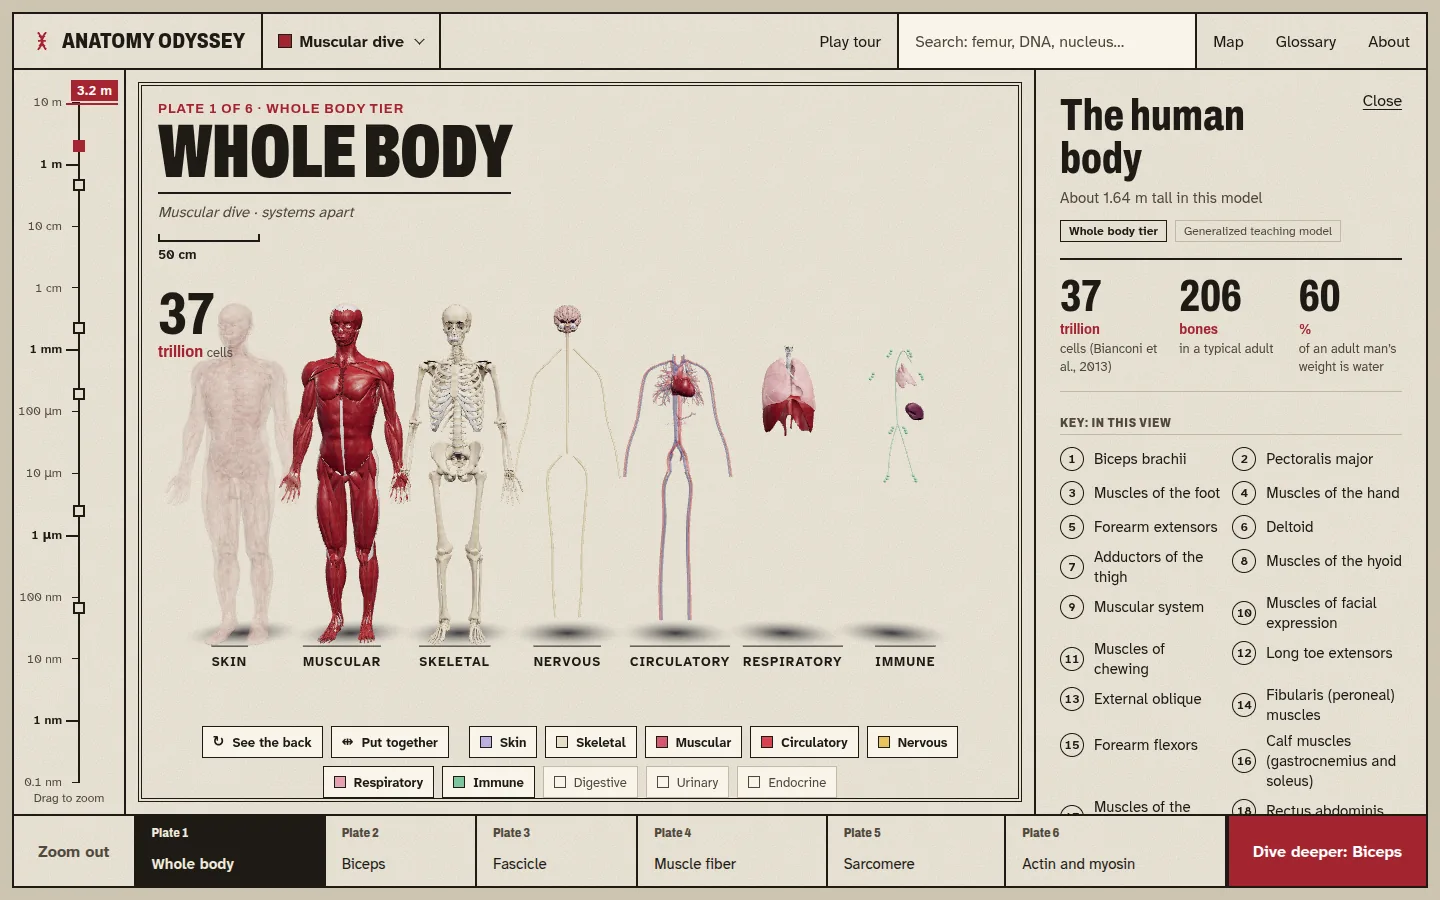
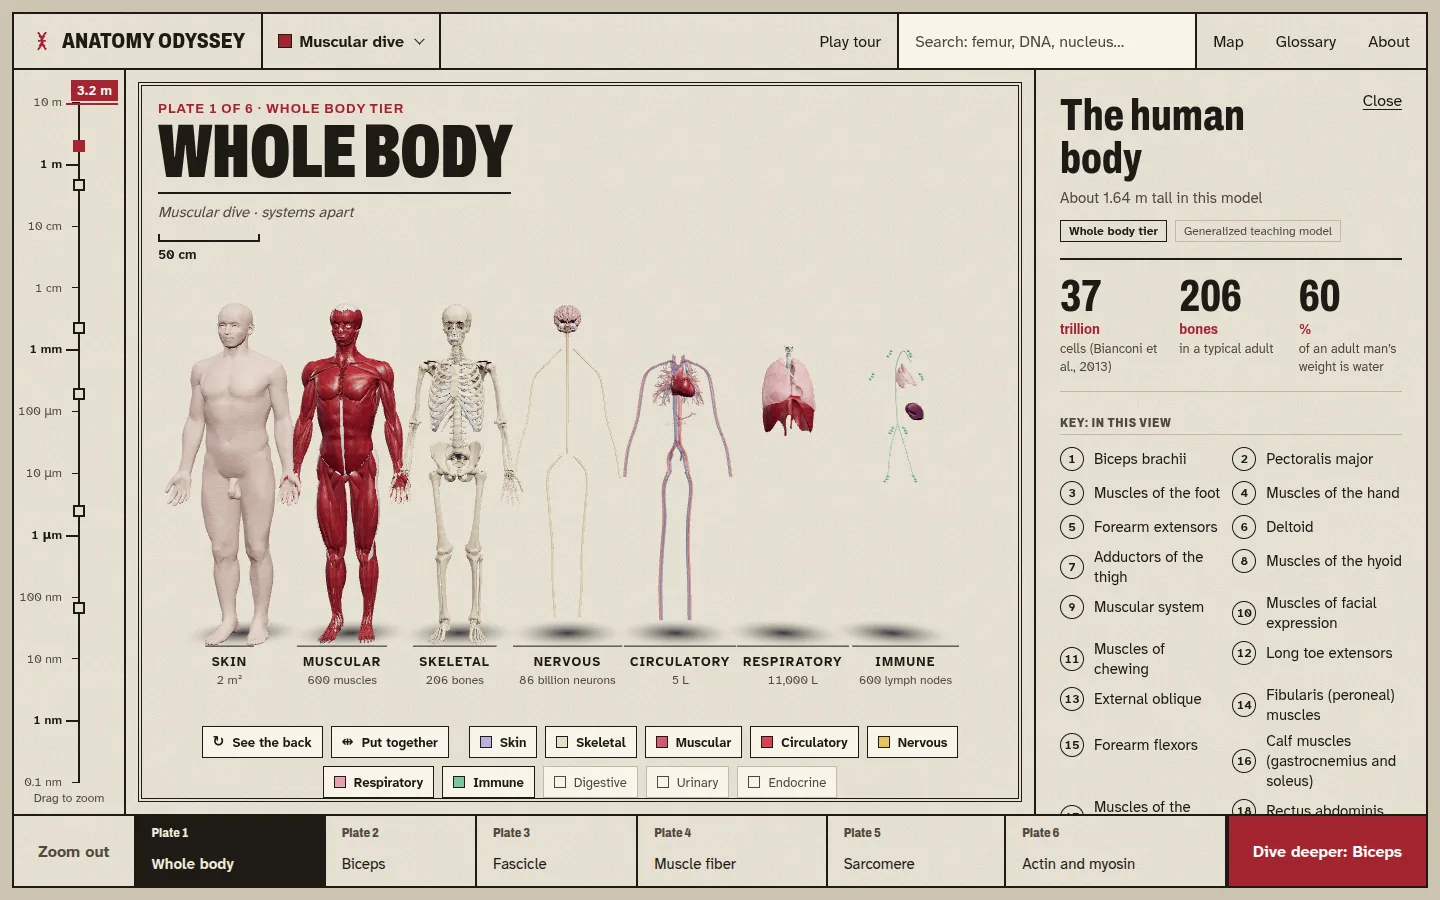
Stand the skin alone as a solid figure; add A and B keys (v0.28.0)
Taken apart, the skin has nothing inside to show, so it fills in from a
see-through film to a solid figure on an even skin tone (its mottled film
tint dropped, pores and creases kept), and turns see-through again when
put together. A takes the body apart or puts it together, B turns it
round; listed on the About page and announced with aria-keyshortcuts.

diff --git a/src/scenes/body.js b/src/scenes/body.js
@@ -38,6 +38,9 @@ export const APART_ORDER = ['skin', 'muscular', 'skeletal', 'nervous', 'circulat
 export const APART_SPACING = 0.54;
 /** How far (meters) a system rises off the floor while the pointer is on it, and how briskly. */
 export const APART_LIFT = 0.06;
+/** How opaque the skin becomes standing alone in the row. */
+export const SKIN_ALONE = 0.94;
+const SKIN_TONE = 0xcfb29f;
 export const LIFT_SPRING = { stiffness: 160, damping: 20 };
 
 /** Where each shown system stands when taken apart: x offsets, centred on the body's own place. */
@@ -371,6 +374,12 @@ function build({ mode = 'body', systems = DEFAULT_SYSTEMS, reducedMotion = false
   let apart = false;
   let shown = skeletonOnly ? ['skeletal'] : [...systems];
   const springs = Object.fromEntries(Object.keys(groups).map((id) => [id, { x: 0, v: 0, delay: 0, y: 0, vy: 0 }]));
+  // Standing alone, the skin has nothing inside it to show through, so it fills in
+  // to a solid figure, as an atlas draws the surface plate.
+  const skinFades = [];
+  groups.skin?.traverse((o) => {
+    if (o.isMesh && o.material?.transparent && o.material.opacity < 0.6) skinFades.push({ mat: o.material, base: o.material.opacity, map: o.material.map, color: o.material.color.clone() });
+  });
   let lifted = null; // the system the pointer is on, raised off the floor like a plate picked up
   const shadows = {};
   for (const [id, grp] of Object.entries(groups)) {
@@ -501,6 +510,20 @@ function build({ mode = 'body', systems = DEFAULT_SYSTEMS, reducedMotion = false
       }
       const t = spread();
       floor.material.opacity = 0.75 * (1 - t);
+      for (const f of skinFades) {
+        const { mat, base } = f;
+        mat.opacity = base + (SKIN_ALONE - base) * t;
+        const solid = t > 0.5;
+        if (mat.depthWrite !== solid) {
+          // Solid, the skin's mottled color map (made to tint a see-through film) would read
+          // as blotches; it keeps its pores and creases (the normal map) on an even skin tone.
+          mat.depthWrite = solid;
+          mat.map = solid ? null : f.map;
+          if (solid) mat.color.set(SKIN_TONE);
+          else mat.color.copy(f.color);
+          mat.needsUpdate = true;
+        }
+      }
       for (const sh of Object.values(shadows)) sh.material.opacity = 0.75 * t * (1 - 0.45 * (sh.userData.lift ?? 0));
       beat = (beat + dt * BEATS_PER_SECOND) % 1;
       heart?.scale.setScalar(still ? 1 : heartbeatScale(beat));

diff --git a/src/main.js b/src/main.js
@@ -183,11 +183,12 @@ async function main() {
 
   // ── Turn around (whole-body tier) ──────────────────────────────────
   // A wall chart of the body comes as a front plate and a back plate; this turns the model to show the other.
-  const turnButton = el('button', { class: 'system-chip system-chip--turn', type: 'button', onclick: () => engine.turnAround() },
+  const turnButton = el('button', { class: 'system-chip system-chip--turn', type: 'button', 'aria-keyshortcuts': 'B', onclick: () => engine.turnAround() },
     el('span', { class: 'system-chip__turn', 'aria-hidden': 'true', text: '↻' }), el('span', { class: 'system-chip__label', text: 'See the back' }));
   // Taking the body apart stands its systems in a row, like the plates of an anatomy atlas side by side.
   const apartButton = el('button', {
     class: 'system-chip system-chip--turn system-chip--apart',
+    'aria-keyshortcuts': 'A',
     type: 'button',
     onclick: async () => {
       // Fit the row between the scale and the card, the part of the screen the plate shows.
@@ -1132,6 +1133,10 @@ async function main() {
       $('atlas-button').click();
     } else if (e.key === 't' || e.key === 'T') {
       startTour();
+    } else if ((e.key === 'a' || e.key === 'A') && apartButton.isConnected && !apartButton.closest('[hidden]')) {
+      apartButton.click(); // take the body apart, or put it together
+    } else if ((e.key === 'b' || e.key === 'B') && turnButton.isConnected && !turnButton.closest('[hidden]')) {
+      turnButton.click(); // see the back, or the front again
     }
   });
   document.addEventListener('click', (e) => {

diff --git a/src/ui/about.js b/src/ui/about.js
@@ -80,7 +80,7 @@ export function renderAbout(container, { backend, settings, onSetting, onReset, 
       el('li', { text: 'Drag to orbit, scroll or pinch to zoom, right-drag or two-finger drag to pan.' }),
       el('li', { text: 'Drag the scale on the left to zoom from 10 m down to 0.1 nm; the view flies on to the next plate when you get close. With the scale focused, the arrow keys zoom by a quarter of a power of ten, Page Up and Page Down by a whole one, Home and End to either end.' }),
       el('li', { text: 'Click any structure to open its card. Its key numbers everything in view: point at a number to see where that part is, or pick it with the keyboard.' }),
-      el('li', { text: 'Keyboard: → or Page Down dives deeper, ← or Page Up zooms out, / jumps to search, M opens the map, G opens the glossary, T plays the tour, Esc closes cards and stops the tour.' }),
+      el('li', { text: 'Keyboard: → or Page Down dives deeper, ← or Page Up zooms out, / jumps to search, M opens the map, G opens the glossary, T plays the tour, A takes the whole body apart or puts it together, B turns it to see the back, Esc closes cards and stops the tour.' }),
     ),
 
     ...versionsSection(isDesktopApp()),

diff --git a/tests/apart.test.js b/tests/apart.test.js
@@ -61,3 +61,11 @@ describe('the row is interactive', () => {
     for (const s of SYSTEMS) expect(statsFor(s.card).length, s.id).toBeGreaterThan(0);
   });
 });
+
+describe('the skin standing alone', () => {
+  it('fills in to a nearly solid figure', async () => {
+    const { SKIN_ALONE } = await import('../src/scenes/body.js');
+    expect(SKIN_ALONE).toBeGreaterThan(0.8);
+    expect(SKIN_ALONE).toBeLessThanOrEqual(1);
+  });
+});

diff --git a/README.md b/README.md
@@ -7,7 +7,7 @@
 [![CI](https://github.com/Normansrule/anatomy-odyssey/actions/workflows/ci.yml/badge.svg)](https://github.com/Normansrule/anatomy-odyssey/actions/workflows/ci.yml)
 [![License: MIT](https://img.shields.io/badge/code-MIT-1b2120)](LICENSE)
 ![Version](https://img.shields.io/badge/version-0.22.0-a3242f)
-![Tests](https://img.shields.io/badge/tests-554%20passing-276a40)
+![Tests](https://img.shields.io/badge/tests-555%20passing-276a40)
 
 [**Open the web app**](https://normansrule.github.io/anatomy-odyssey/) ·
 [Download the desktop app](https://github.com/Normansrule/anatomy-odyssey/releases/latest) ·
@@ -48,7 +48,7 @@ Anatomy Odyssey is a three-dimensional (3D) model of the human body, drawn like 
 - **Science you can play with.** Sliders run real, tested equations (oxygen binding, nerve speed, blood acidity, how fast an enzyme works, how much blood the heart pumps).
 - **A map by scale, a tour, quizzes and a glossary.** The map (press M) lays out every dive on one size axis; the tour narrates a dive with captions you can have read aloud.
 - **Front and back plates.** A button under the whole body turns it round, as a wall chart comes as a front and a back plate: the labels move to the parts seen from behind (trapezius, latissimus dorsi, the deep back muscles, the rotator cuff, gluteus maximus, the hamstrings), and each sits on the surface that faces you.
-- **Take it apart.** "Take apart" lifts each body system out of the whole and stands them in a row, skin first, then muscle, bone, nerves, blood vessels, lungs, gut, kidneys, glands and the immune system, each on its own floor shadow with its name underneath, the way an exploded diagram lays out a machine. Each figure steps out on a spring, a beat after the one before; "Put together" walks them back in reverse. The row turns round with "See the back" too. Point at a system in the row and it lifts off the floor; each caption gives the system's headline figure and opens its card.
+- **Take it apart.** "Take apart" lifts each body system out of the whole and stands them in a row, skin first, then muscle, bone, nerves, blood vessels, lungs, gut, kidneys, glands and the immune system, each on its own floor shadow with its name underneath, the way an exploded diagram lays out a machine. Each figure steps out on a spring, a beat after the one before; "Put together" walks them back in reverse. The row turns round with "See the back" too. Point at a system in the row and it lifts off the floor; each caption gives the system's headline figure and opens its card. Standing alone, the skin fills in to a solid figure. Press A to take it apart and B to turn it round.
 - **Made to move.** After every flight the plate sets itself like a printed chart: the heading rises out of its baseline and each label's line draws out from its part. The studio light follows your pointer across the model, and the guide's landing page falls through the body as you scroll.
 - **A guide website.** A landing page drawn as the same chart, plus the docs as a printed booklet, at [/guide/](https://normansrule.github.io/anatomy-odyssey/guide/).
 - **Private and accessible.** No network calls after loading, full keyboard control, screen-reader announcements, a reduced-motion mode, and an automated Web Content Accessibility Guidelines (WCAG) 2.2 audit with zero violations in 55 states, light and dark.

diff --git a/CHANGELOG.md b/CHANGELOG.md
@@ -1,5 +1,10 @@
 # Changelog
 
+## 0.28.0
+
+- **The skin stands as a figure of its own.** Over the body the skin is a see-through film so you can look at what it holds; taken apart, it has nothing inside to show, so it fills in to a solid, sculpted figure, the surface-anatomy plate an atlas opens with. Solid, it drops the mottled tint made for the film (which read as blotches) and keeps its pores and creases on an even skin tone. Put together, it turns see-through again.
+- **Two new keys.** A takes the whole body apart or puts it together; B turns it round to see the back or the front. The About page lists them with the others, and the buttons announce them to screen readers.
+
 ## 0.27.0
 
 - **Pick a system out of the row.** With the body taken apart, pointing at any part of a system lifts that whole figure a few centimeters off the floor on a quick spring, its shadow spreading and paling under it the way a model lifted off a table casts a softer shadow, and its caption turns red. Pointing at a caption (or tabbing to it) does the same, and clicking it opens that system's card. A part still opens its own card.
